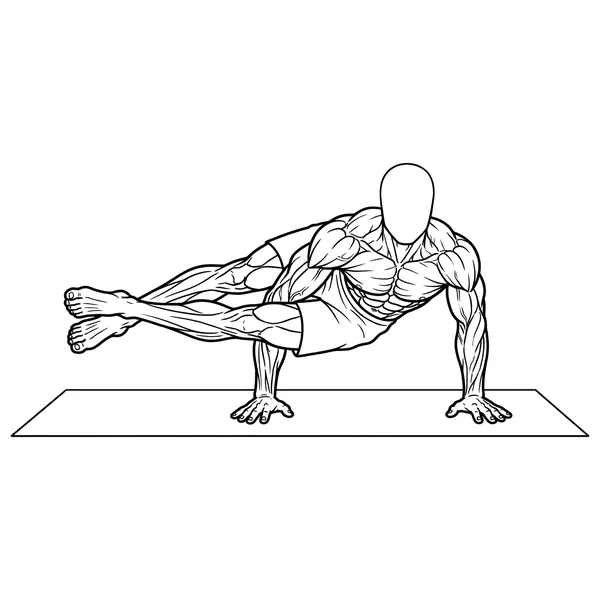
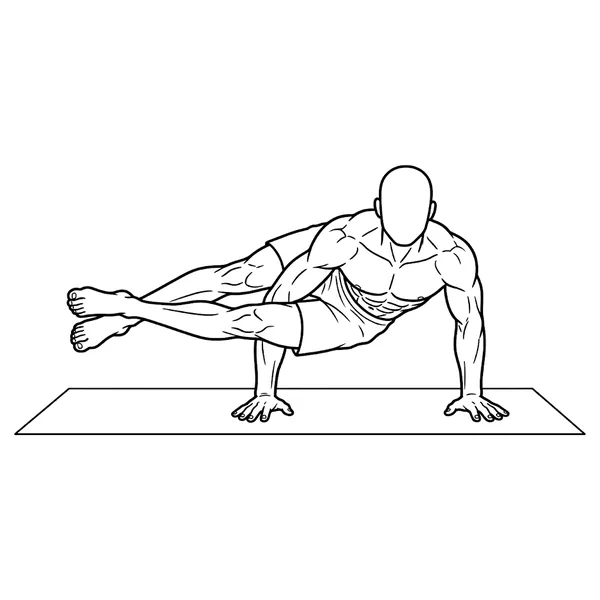
0.60.17: sexta revision de los dibujos apuntada; vuelven los dibujos de antes que prefirio (16 de yoga, hack, elevaciones laterales, remo al menton, rumano)

Changed region(s): [[0.03, 0.27, 0.99, 0.75], [0.9, 0.66, 0.93, 0.69], [0.06, 0.66, 0.09, 0.69]]

diff --git a/web/sw.js b/web/sw.js
@@ -7,12 +7,12 @@
 // Solo se ocupa del CÓDIGO de la app. Los datos del usuario nunca pasan por
 // aquí: viven en el dispositivo (IndexedDB) y en su Google Drive.
 
-const VERSION = '0.60.16';
+const VERSION = '0.60.17';
 const CACHE = `entreno-${VERSION}`;
 // Las imágenes van en un almacén aparte que NO se borra al actualizar la app:
 // así se ven sin conexión aunque haya salido una versión nueva.
 // Si cambian las imágenes, se sube el número y los móviles bajan las nuevas.
-const CACHE_IMAGENES = 'entreno-imagenes-26';  // el mismo nombre en app.js (guardarImagenesParaSinConexion)
+const CACHE_IMAGENES = 'entreno-imagenes-27';  // el mismo nombre en app.js (guardarImagenesParaSinConexion)
 
 const ARCHIVOS = [
   './',

diff --git a/web/js/app.js b/web/js/app.js
@@ -236,7 +236,7 @@ async function guardarImagenesParaSinConexion() {
     const capas = Object.entries(MUSCULOS).flatMap(([clave, m]) => m.vistas.map((v) => archivoCapa(clave, v)));
     const cuerpo = ['imagenes/musculos/cuerpo-delante.svg', 'imagenes/musculos/cuerpo-detras.svg'];
     // El mismo nombre que CACHE_IMAGENES en sw.js: si no, el service worker lo borra.
-    const cache = await caches.open('entreno-imagenes-26');
+    const cache = await caches.open('entreno-imagenes-27');
     for (const ruta of [...cuerpo, ...capas, ...mios]) {
       if (!(await cache.match(ruta, { ignoreSearch: true }))) {
         const r = await fetch(ruta).catch(() => null);

diff --git a/web/js/version.js b/web/js/version.js
@@ -1,3 +1,3 @@
 // Versión del código de la app. Se sube en cada publicación y debe coincidir
 // con VERSION en sw.js, que es lo que hace que los móviles se actualicen.
-export const VERSION_APP = '0.60.16';
+export const VERSION_APP = '0.60.17';

diff --git a/herramientas/reencajar.py b/herramientas/reencajar.py
@@ -50,6 +50,7 @@ REENCAJAR = {
     "encogimientos-de-trapecio": {"ia": True, "zona": (0.0, 0.9, 1.0, 1.0), "fijo_desde": 0.6},  # pies; piernas quietas
     "carrera": {"ia": True, "zona": (0.25, 0.0, 0.75, 0.4)},                  # cabeza y hombros (corre en el sitio)
     "remo-de-cardio": {"ia": True, "zona": (0.0, 0.0, 0.3, 1.0)},             # el volante y las patas de delante
+    "peso-muerto-rumano": {"ia": True, "zona": (0.0, 0.9, 1.0, 1.0)},      # 23-10: el de antes con los pies clavados
     "press-militar-ek-completo": {"ia": True, "zona": (0.0, 0.85, 1.0, 1.0), "fijo_desde": 0.55},  # pies; piernas quietas
 }
 

diff --git a/herramientas/imagenes_ia.py b/herramientas/imagenes_ia.py
@@ -322,7 +322,7 @@ def ejercicios_de(entrada):
 
 # Ejercicios que se aguantan quietos: dibujo sin animar (Dan, 22-10-2026: «en estática que no se mueva»).
 # Dibujos que se quedan como están (Dan eligió la versión de antes en una revisión): no se rehacen.
-CONGELADOS = {"cruces-en-polea-completo"}   # 23-10: «estaba mejor el anterior» (el de la 0.60.9)
+CONGELADOS = {"cruces-en-polea-completo", "sentadilla-hack", "elevaciones-laterales-completo"}   # versiones anteriores que Dan prefiere (23-10)
 
 QUIETOS = {"Plancha lateral": "imagenes/ejercicios/anim/plancha-lateral-quieta.webp"}
 

diff --git a/imagenes-ia/cola.md b/imagenes-ia/cola.md
@@ -79,3 +79,50 @@ de antes), montaña (sale sin pantalón), águila (pantalón a cuadros).
 Hecho el 23-10 a mediodía (0.60.15): la cola «más músculo» completa (del 90 al 131 y las zancadas hacia atrás de
 perfil). Revisar: héroe tendido (pantalón negro), cobra (perfil con oreja), rueda (la curva no se entiende).
 Hecho (0.60.16): press militar sentado completado y remo en polea al pecho sin teletransporte. **Cola vacía.**
+
+# Sexta revisión (23-10-2026, sus notas en la página de revisión, colección `comparar`)
+
+Reglas nuevas: cara SIEMPRE lisa (sin marcas; unificar orejas: mirar qué llevan la mayoría); bañador blanco
+(solo línea, nunca relleno); en máquinas darle a la IA una foto de ejemplo de la máquina de verdad y pedir que
+la pase a nuestro estilo; en posturas de yoga mal entendidas, darle de ejemplo el dibujo anterior o el libro;
+lo que la IA no sabe quitar (líneas sueltas, línea de suelo), a mano. Orden: primero lo que la IA sabe
+corregir; cardio y animaciones de piernas alternas (3 imágenes: izquierda, ninguna, derecha), lo último.
+
+## 1. Sin IA (código o a mano)
+- [ ] Volver al de antes: ángulo en ocho, ángulo ligado tumbado, arco, cara de vaca, flexión amplia, plancha
+      lateral del sabio, torsión abdominal, tortuga, remo al mentón, sentadilla hack (y reintentar), elevaciones
+      laterales (y rehacer), peso muerto rumano (y clavar los pies).
+- [ ] Nombre de yoga en el título de las posturas (dijo que sí).
+- [ ] Cruces en polea: quitar a mano la línea de los pies. Pectoral en el marco: borrar la línea mano-pierna.
+      Ángulo ligado: borrar las 4 marcas de la cara.
+- [ ] Press militar sentado: la imagen se corta un poco (lienzo). No borrar el otro (borrarOtro: false).
+- [ ] Remo de cardio: línea más gruesa e igual en las dos posturas.
+## 2. Con IA, fácil (solo la cara lisa, sobre el dibujo elegido)
+- [ ] Nuevos: apana, arado, árbol boca abajo, banco dos apoyos, cadáver, camello, escorpión, oeste, flexión de
+      pie, pavo real cola, triángulo, triángulo girado, medio señor de los peces, superman, sentadilla goblet,
+      elevador de la escápula, langosta, puente.
+- [ ] De antes (vuelven) con cara lisa: cobra, oreja a la rodilla, pavo real, perro boca abajo, pez, piernas
+      en la pared, plancha hacia arriba, sobre los hombros sin brazos.
+- [ ] Banco cuatro apoyos: cuerpo antiguo y cara nueva. Héroe tendido: bañador blanco. Sofá: falta bañador.
+      Montaña: con pantalón y manos/postura como el anterior. Silla: postura como el anterior (darle el anterior).
+## 3. Con IA, posturas y ejercicios
+- [ ] León: no es la postura (ejemplo del libro). Paloma real y sobre los hombros con apoyo: rehacer.
+- [ ] Gemelo y sóleo en pared: el talón de atrás apoyado del todo (y le extraña la diferencia de la rodilla).
+- [ ] Estiramiento de antebrazo: variante nueva de flexores. Leñador en polea: variante nueva hacia arriba.
+- [ ] CARs de hombro → cambiar por «rotaciones de hombro con palo» (buscar ejemplos).
+- [ ] Dominadas: el tamaño cambia (como el muñeco de antes). Supinas = las dominadas nuevas cambiando solo el
+      agarre (y las nuevas pasan a ser las pronas). Negativas: la dominada al revés.
+- [ ] Curl en polea: el cable siempre por la parte baja de la polea. Gemelos: que suba más (casi una cabeza).
+- [ ] Gemelos sentado: el peso sube al subir. Extensión de tríceps en máquina: el agarre no se da la vuelta,
+      las placas suben al extender; cara. Elevaciones laterales en polea: el brazo libre siempre al lado.
+- [ ] Encogimientos: encoge poco. Gato-camello: la espalda no se dobla. Hip thrust: el ejercicio de antes con el
+      banco y los pies de ahora. Puente de glúteo: rehacer. Puente por fases: cabeza y brazos clavados; cara.
+      Flexiones en pica: manos fijas, cara plana. Face pull: la máquina cambia y el muñeco se parte.
+      Sentadilla en multipower: pies clavados; quitar el listón fino de la derecha.
+- [ ] Press de hombro a una mano y elevaciones laterales: piernas sobre piernas, empezar del original.
+## 4. Máquinas con foto de ejemplo
+- [ ] Dominadas asistidas, fondos asistidos, gemelos en multipower, pájaros en contractora, máquina de glúteo,
+      remo en máquina, patada de glúteo en polea, esquí de fondo (máquina), sentadilla hack.
+## 5. Animaciones (lo último)
+- [ ] Mountain climbers y carrera (3 imágenes), elíptica (cada mano en su palanca), escalera, zancadas (las dos),
+      cabeza a la rodilla (meter la cabeza), sobre la cabeza (alternar las dos perspectivas cada 2 s).

diff --git a/CLAUDE.md b/CLAUDE.md
@@ -1180,3 +1180,8 @@ fase), tras probar la A.
 - 0.60.16: los dos últimos arreglos de la lista: press militar sentado completado (piernas y pies con Gemini,
   `completo-press-militar-ek.png`, piernas y banco quietos con `fijo_desde`) y remo en polea al pecho reencajado
   por el banco (`reencajar.py`). Almacén `entreno-imagenes-26`.
+- 0.60.17 (23-10-2026, tarde): su sexta revisión, apuntada entera en `imagenes-ia/cola.md` («Sexta revisión»).
+  Vuelven los dibujos de antes que prefirió: 16 posturas de yoga (originales devueltos desde descartes),
+  sentadilla hack y elevaciones laterales (`CONGELADOS`), remo al mentón (sin `grosor`) y peso muerto rumano
+  (el de antes, pies clavados). Reglas nuevas en la memoria: cara lisa, bañador blanco, máquinas con foto de
+  ejemplo. Almacén `entreno-imagenes-27`.
